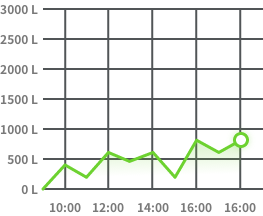
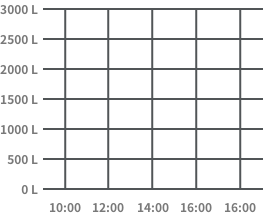
침사조 유량계 부분 기본값 및 이미지 수정

Changed region(s): [[0.1521, 0.6944, 0.6996, 0.8889], [0.6996, 0.6111, 0.9734, 0.75]]

diff --git a/htdocs/index.html b/htdocs/index.html
@@ -448,7 +448,7 @@
           </div>
           <div class="sand-sinking-tank-data-box">
             <div class="sand-sinking-tank-data-num font-green">
-              2500
+              0
             </div>
             <div class="sand-sinking-tank-data-unit">
               L
